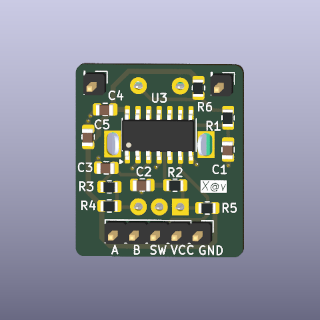
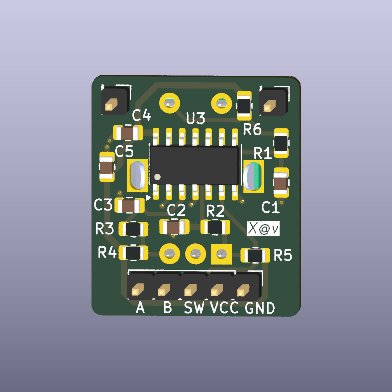
doc: Add photo of PCB assembled

Changed region(s): [[0.2188, 0.1875, 0.7812, 0.8125]]

diff --git a/README.md b/README.md
@@ -69,6 +69,8 @@ Components have been choosen to be "**Basic**" parts of JLCPCB to reduce the man
 
 The cost of the PCB fabrication and SMD assembly (so without the rotary encoder and pin headers) is about 7€ for 5 pieces.
 
+![alt text](docs/PCBA.png)
+
 ## Analysis of results
 
 On the oscilloscope, we can see a clean signal. The noise has been filtered-out.
